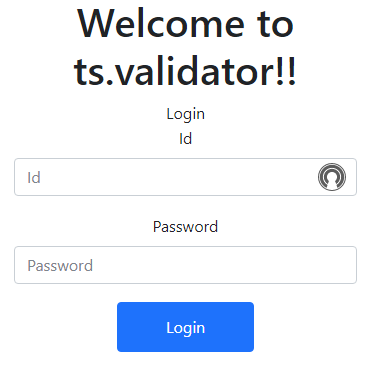
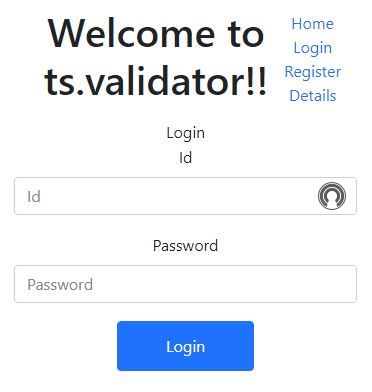
changed screenshots.

diff --git a/src/app/app.component.html b/src/app/app.component.html
@@ -1,10 +1,27 @@
 <div style="text-align:center;">
-    <nav>
-        <a routerLink="/home">Home</a>
-        <a routerLink="/login">Login</a>
-        <a routerLink="/register">Register</a>
-        <a routerLink="/details" >Details</a>      
-    </nav>     
+    <nav class="navbar navbar-default">
+        <div class="container-fluid">
+            <div class="navbar-header" style="width: 100%;">
+                    <table style="width: 100%;">
+                            <tr>
+                                <td>
+                                    <h1 style="text-align:center">
+                                        Welcome to ts.validator!!
+                                    </h1>
+                                </td>
+                                <td>
+                                    <ul class="nav navbar-nav">
+                                    <li><a routerLink="/home">Home</a></li>
+                                    <li><a routerLink="/login">Login</a></li>
+                                    <li><a routerLink="/register">Register</a></li>
+                                    <li><a routerLink="/details" >Details</a></li>
+                                    </ul>
+                                </td>
+                            </tr>
+                    </table>                  
+            </div>            
+        </div>
+    </nav>    
 </div>
 <div class="container">
     <router-outlet></router-outlet>

diff --git a/src/index.html b/src/index.html
@@ -11,9 +11,6 @@
   <link rel="stylesheet" href="./styles.css">
 </head>
 <body>
-  <h1 style="text-align:center">
-    Welcome to ts.validator!!
-  </h1>   
   <app-root></app-root>
 </body>
 </html>
